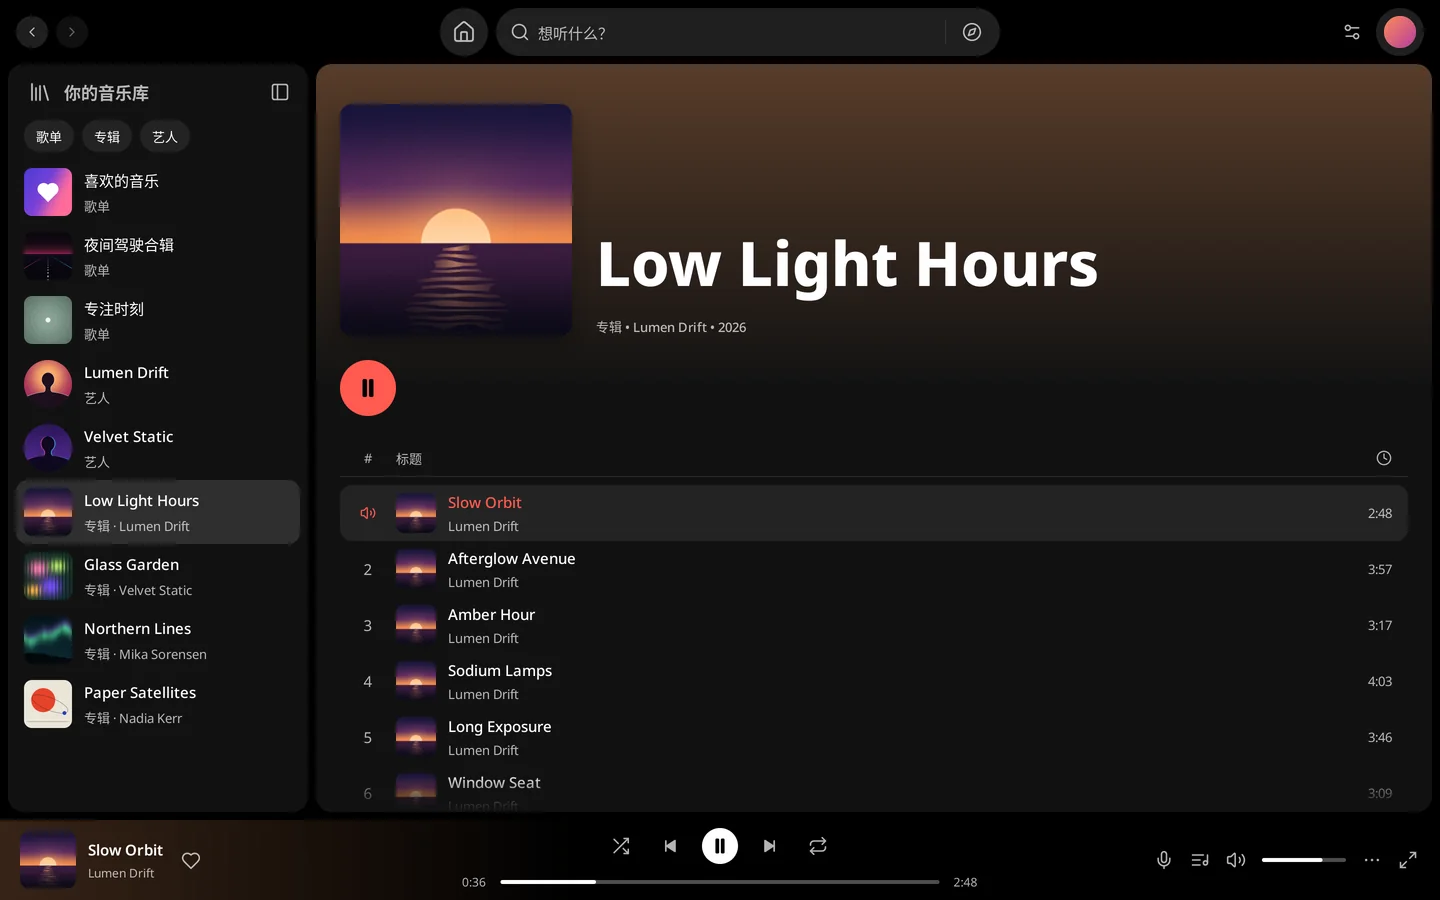
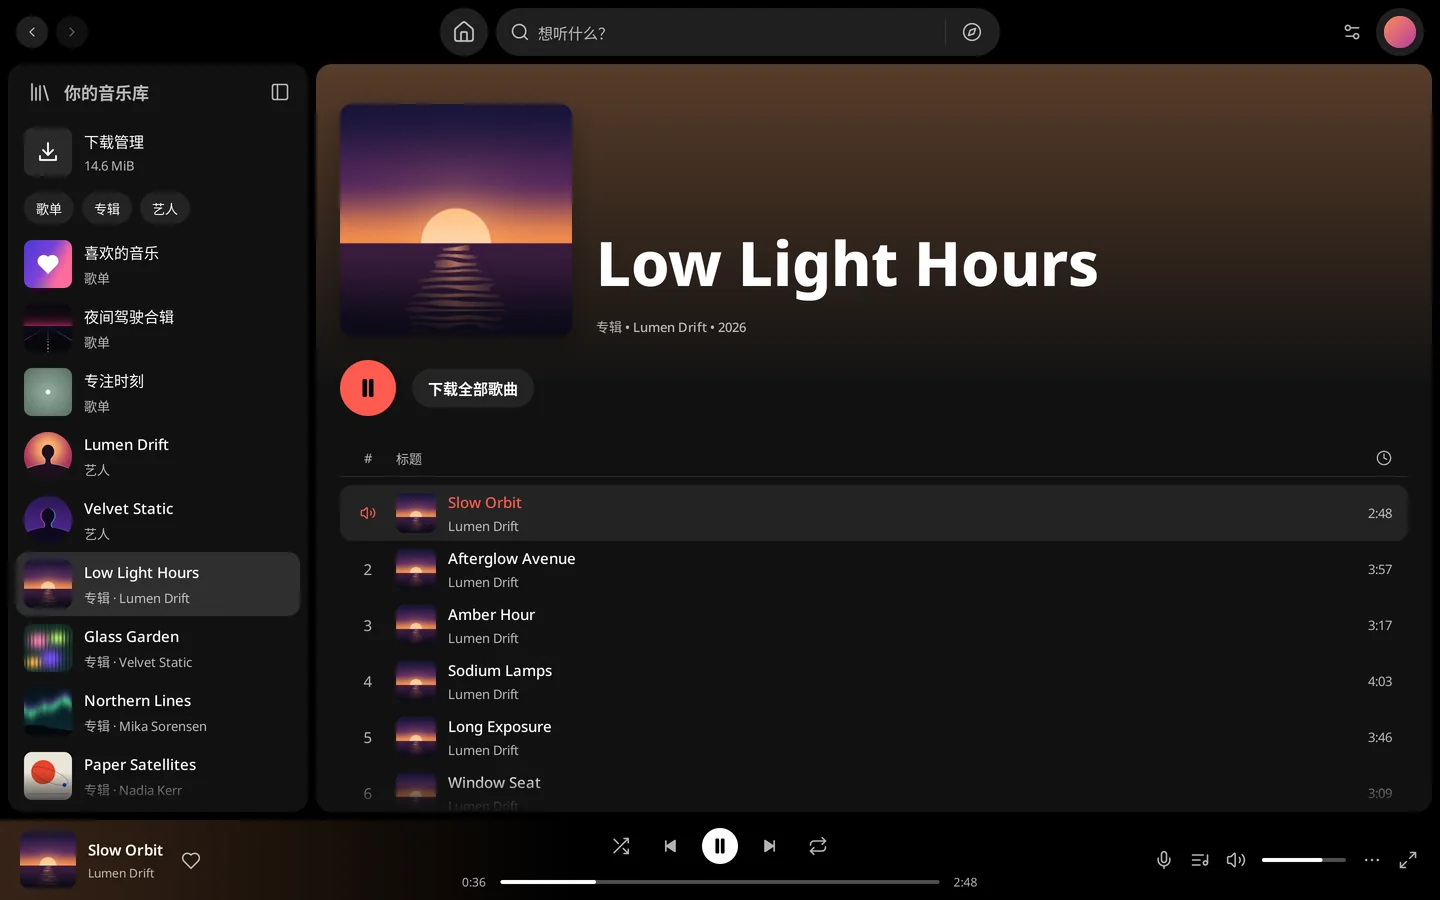
Website: downloads and audio quality
Screenshots show the library's Downloads entry and an album's Download
pill; the library section, details table, privacy points and FAQ mention
offline downloads (audio encrypted, removed on sign-out) and audio quality.

Changed region(s): [[0.0, 0.1244, 0.2188, 0.8089], [0.0, 0.84, 0.125, 0.9022], [0.2812, 0.4044, 0.375, 0.4667]]

diff --git a/site/template.html b/site/template.html
@@ -182,6 +182,7 @@
           <li>{{t "library.tick1"}}</li>
           <li>{{t "library.tick2"}}</li>
           <li>{{t "library.tick3"}}</li>
+          <li>{{t "library.tick4"}}</li>
         </ul>
       </div>
       <figure class="shot shot--sticky">
@@ -254,6 +255,7 @@
         <tr><td class="mono">4</td><th scope="row"><b>{{wbr "more.updates.title"}}</b><span>{{t "more.updates.body"}}</span></th></tr>
         <tr><td class="mono">5</td><th scope="row"><b>{{wbr "more.accounts.title"}}</b><span>{{t "more.accounts.body"}}</span></th></tr>
         <tr><td class="mono">6</td><th scope="row"><b>{{wbr "more.proxy.title"}}</b><span>{{t "more.proxy.body"}}</span></th></tr>
+        <tr><td class="mono">7</td><th scope="row"><b>{{wbr "more.quality.title"}}</b><span>{{t "more.quality.body"}}</span></th></tr>
       </tbody>
     </table>
   </div>
